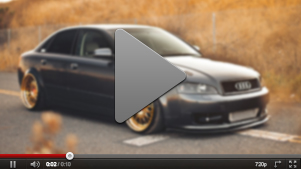
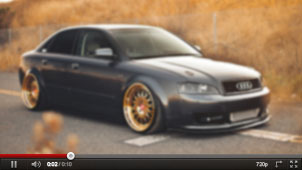
ровняем по ширине блоки  с видео, подключаем попапы, добавляем ссылку на блок с видео

diff --git a/vmyatinov.ru/vmyatinov.ru/gallery.html b/vmyatinov.ru/vmyatinov.ru/gallery.html
@@ -4,10 +4,15 @@
 	<meta charset="utf-8">
     <title>Детейлинг-цетр Вмятинов</title>
     <link rel="stylesheet/less" type="text/css" href="./css/gallery_style.less">
+    <link rel="stylesheet/less" type="text/css" href="./css/popapp.less">
+    <link rel="stylesheet/less" type="text/css" href="./css/jquery.fancybox.css">
     <link rel="icon" type="image/png" href="./source/favicon.png">
     <script type="text/javascript" src="./js/selectivizr.js"></script>
     <script type="text/javascript" src="./js/jQuery.js"></script>
     <script type="text/javascript" src="./js/less.js"></script>
+    <script type="text/javascript" src="./js/jquery.fancybox.pack.js"></script>
+    <script type="text/javascript" src="./js/main1.js"></script>
+
 </head>
 <body>
 	<div id="main-wrapper">
@@ -74,41 +79,78 @@
 			<div class="clear"></div>
 			<div id="video-gallery">
 				<div class="video-box">
-					<div class="video"></div>
+					<div class="video" style="background: url(img/v1.jpg) 50% 50% no-repeat;">
+						<a class="play-lnk" href="#video1" rel="video-gallery"></a>
+					</div>
+					<p class="video-description">Опытные и честные мастера, занимающиеся традиционным удалением вмятин, никогда не дадут гарантий на совпадение цвета новой краски с цветом кузова. В случае удаления вмятин без покраски, такого вопроса просто не возникает.</p>
+
+					<div class="popapp-box" id="video1">
+						<div class="social-icon-box">
+							<a href="./#.html" title="" target="_self" class="facebook"></a>
+							<a href="./#.html" title="" target="_self" class="vkontakte"></a>
+						</div>
+						<iframe width="960" height="576" src="//www.youtube.com/embed/7U6_NvmwOso" frameborder="0" allowfullscreen></iframe>
+					</div>
+
+				</div>
+				<div class="video-box">
+					<div class="video" style="background: url(img/v1.jpg) 50% 50% no-repeat;">
+						<a class="play-lnk" href="#video2" rel="video-gallery"></a>
+					</div>
+					<p class="video-description">Опытные и честные мастера, занимающиеся традиционным удалением вмятин, никогда не дадут гарантий на совпадение цвета новой краски с цветом кузова. В случае удаления вмятин без покраски, такого вопроса просто не возникает.</p>
+
+					<div class="popapp-box" id="video2">
+						<div class="social-icon-box">
+							<a href="./#.html" title="" target="_self" class="facebook"></a>
+							<a href="./#.html" title="" target="_self" class="vkontakte"></a>
+						</div>
+						<iframe width="960" height="576" src="//www.youtube.com/embed/RGPzFNh7anw" frameborder="0" allowfullscreen></iframe>
+					</div>
+
+				</div>
+				<div class="video-box">
+					<div class="video" style="background: url(img/v1.jpg) 50% 50% no-repeat;">
+						<a class="play-lnk" href="#video1"></a>
+					</div>
 					<p class="video-description">Опытные и честные мастера, занимающиеся традиционным удалением вмятин, никогда не дадут гарантий на совпадение цвета новой краски с цветом кузова. В случае удаления вмятин без покраски, такого вопроса просто не возникает.</p>
 				</div>
 				<div class="video-box">
-					<div class="video"></div>
-					<p class="video-description">Ремонт вмятин без покраски, значительно более быстрый процесс. Он проходит локально, без снятия кузова. Времязатраты редко превышают час, а незначительную вмятину опытный мастер устранит за считанные минуты.</p>
-				</div>
-				<div class="video-box">
-					<div class="video"></div>
-					<p class="video-description">Так же, как это следует из названия, при устранении вмятин без покраски машина не проходит достаточно не предсказуемые операции грунтования и собственно покраски.</p>
-				</div>
-				<div class="video-box">
-					<div class="video"></div>
+					<div class="video" style="background: url(img/v1.jpg) 50% 50% no-repeat;">
+						<a class="play-lnk" href="#video1"></a>
+					</div>
 					<p class="video-description">Опытные и честные мастера, занимающиеся традиционным удалением вмятин, никогда не дадут гарантий на совпадение цвета новой краски с цветом кузова. В случае удаления вмятин без покраски, такого вопроса просто не возникает.</p>
 				</div>
 				<div class="video-box">
-					<div class="video"></div>
-					<p class="video-description">Ремонт вмятин без покраски, значительно более быстрый процесс. Он проходит локально, без снятия кузова. Времязатраты редко превышают час, а незначительную вмятину опытный мастер устранит за считанные минуты.</p>
-				</div>
-				<div class="video-box">
-					<div class="video"></div>
-					<p class="video-description">Так же, как это следует из названия, при устранении вмятин без покраски машина не проходит достаточно не предсказуемые операции грунтования и собственно покраски.</p>
-				</div>
-				<div class="video-box">
-					<div class="video"></div>
+					<div class="video" style="background: url(img/v1.jpg) 50% 50% no-repeat;">
+						<a class="play-lnk" href="#video1"></a>
+					</div>
 					<p class="video-description">Опытные и честные мастера, занимающиеся традиционным удалением вмятин, никогда не дадут гарантий на совпадение цвета новой краски с цветом кузова. В случае удаления вмятин без покраски, такого вопроса просто не возникает.</p>
 				</div>
 				<div class="video-box">
-					<div class="video"></div>
-					<p class="video-description">Ремонт вмятин без покраски, значительно более быстрый процесс. Он проходит локально, без снятия кузова. Времязатраты редко превышают час, а незначительную вмятину опытный мастер устранит за считанные минуты.</p>
+					<div class="video" style="background: url(img/v1.jpg) 50% 50% no-repeat;">
+						<a class="play-lnk" href="#video1"></a>
+					</div>
+					<p class="video-description">Опытные и честные мастера, занимающиеся традиционным удалением вмятин, никогда не дадут гарантий на совпадение цвета новой краски с цветом кузова. В случае удаления вмятин без покраски, такого вопроса просто не возникает.</p>
 				</div>
 				<div class="video-box">
-					<div class="video"></div>
-					<p class="video-description">Так же, как это следует из названия, при устранении вмятин без покраски машина не проходит достаточно не предсказуемые операции грунтования и собственно покраски.</p>
+					<div class="video" style="background: url(img/v1.jpg) 50% 50% no-repeat;">
+						<a class="play-lnk" href="#video1"></a>
+					</div>
+					<p class="video-description">Опытные и честные мастера, занимающиеся традиционным удалением вмятин, никогда не дадут гарантий на совпадение цвета новой краски с цветом кузова. В случае удаления вмятин без покраски, такого вопроса просто не возникает.</p>
 				</div>
+				<div class="video-box">
+					<div class="video" style="background: url(img/v1.jpg) 50% 50% no-repeat;">
+						<a class="play-lnk" href="#video1"></a>
+					</div>
+					<p class="video-description">Опытные и честные мастера, занимающиеся традиционным удалением вмятин, никогда не дадут гарантий на совпадение цвета новой краски с цветом кузова. В случае удаления вмятин без покраски, такого вопроса просто не возникает.</p>
+				</div>
+				<div class="video-box">
+					<div class="video" style="background: url(img/v1.jpg) 50% 50% no-repeat;">
+						<a class="play-lnk" href="#video1"></a>
+					</div>
+					<p class="video-description">Опытные и честные мастера, занимающиеся традиционным удалением вмятин, никогда не дадут гарантий на совпадение цвета новой краски с цветом кузова. В случае удаления вмятин без покраски, такого вопроса просто не возникает.</p>
+				</div>
+
 			</div>
 			<div class="clear"></div>
 			<div class="social-icon-group">

diff --git a/vmyatinov.ru/vmyatinov.ru/css/jquery.fancybox.css b/vmyatinov.ru/vmyatinov.ru/css/jquery.fancybox.css
@@ -134,17 +134,49 @@
 	margin-top: -18px;
 	cursor: pointer;
 	z-index: 8040;
-	visibility: hidden;
+}
+.fancybox-nav span:hover{
+	background-color: rgba(255, 255, 255, 0.7);
 }
 
 .fancybox-prev span {
-	left: 10px;
-	background-position: 0 -36px;
+	background: rgba(255, 255, 255, 0.25) url(../source/arr_viewer.png) 12px center no-repeat;
+	border-radius: 0 100px 100px 0;
+	position: absolute;
+	display: block;
+	height: 150px;
+	width: 75px;
+	left: 0;
+	top: 50%;
+	-webkit-transform: translate(0, -50%);
+	-moz-transform: translate(0, -50%);
+	-ms-transform: translate(0, -50%);
+	-o-transform: translate(0, -50%);
+	transform: translate(0, -50%);
+	-webkit-transition: background-color 0.25s ease-in-out;
+	-moz-transition: background-color 0.25s ease-in-out;
+	-o-transition: background-color 0.25s ease-in-out;
+	transition: background-color 0.25s ease-in-out;
 }
 
 .fancybox-next span {
-	right: 10px;
-	background-position: 0 -72px;
+	background: rgba(255, 255, 255, 0.25) url(../source/arr_viewer.png) -37px center no-repeat;
+	border-radius: 100px 0 0 100px;
+	position: absolute;
+	display: block!important;
+	height: 150px;
+	width: 75px;
+	right: 0;
+	top: 50%;
+	-webkit-transform: translate(0, -50%);
+	-moz-transform: translate(0, -50%);
+	-ms-transform: translate(0, -50%);
+	-o-transform: translate(0, -50%);
+	transform: translate(0, -50%);
+	-webkit-transition: background-color 0.25s ease-in-out;
+	-moz-transition: background-color 0.25s ease-in-out;
+	-o-transition: background-color 0.25s ease-in-out;
+	transition: background-color 0.25s ease-in-out;
 }
 
 .fancybox-nav:hover span {

diff --git a/vmyatinov.ru/vmyatinov.ru/css/gallery_style.less b/vmyatinov.ru/vmyatinov.ru/css/gallery_style.less
@@ -344,21 +344,32 @@ body {
 			width: 940px;
 
 			.video-box {
-				margin-right: 10px;
-				display: table;
-				height: 350px;
-				width: 300px;
+				min-height: 350px;
+				width: 33.3%;
 				float: left;
+				padding: 0 6px;
+				box-sizing: border-box;
+				-moz-box-sizing: border-box;
+				-webkit-box-sizing: border-box;
+
 
 				.video {
 					background: transparent url(../img/v1.jpg) center top no-repeat;
-					display: block;
-					height: 200px;
+					display: inline-block;
+					height: 170px;
 					width: 300px;
+					margin-bottom: 30px;
+					position: relative;
+				}
 
-					&:hover {
-						cursor: pointer;
-					}
+				.play-lnk{
+					display: block;
+					width: 100%;
+					height: 100%;
+					position: absolute;
+					top: 0;
+					left: 0;
+					background: url("../source/play-btn.png") 50% 50% no-repeat;
 				}
 
 				p.video-description {
@@ -366,6 +377,7 @@ body {
 					display: block;
 					color: #c2c3ae;
 					width: 300px;
+					text-align: left;
 				}
 			}
 		}

diff --git a/vmyatinov.ru/vmyatinov.ru/css/popapp.less b/vmyatinov.ru/vmyatinov.ru/css/popapp.less
@@ -15,6 +15,8 @@
 		border-radius: 10px;
 		padding: 0;
 		display: none;
+		overflow: hidden;
+		position: relative;
 
 		.popapp-area-img {
 			text-align: center;
@@ -170,6 +172,7 @@
 			margin: 0;
 			left: 10px;
 			top: 10px;
+			z-index: 99999;
 
 			a.facebook:link,
 			a.facebook:active,

diff --git a/vmyatinov.ru/vmyatinov.ru/js/main1.js b/vmyatinov.ru/vmyatinov.ru/js/main1.js
@@ -26,7 +26,7 @@ $(document).ready(function(){
 	}
 
 
-	$(".popup-link").fancybox({
+	$(".popup-link, .play-lnk").fancybox({
 		padding : 0,
 		helpers : {
 			overlay : {
